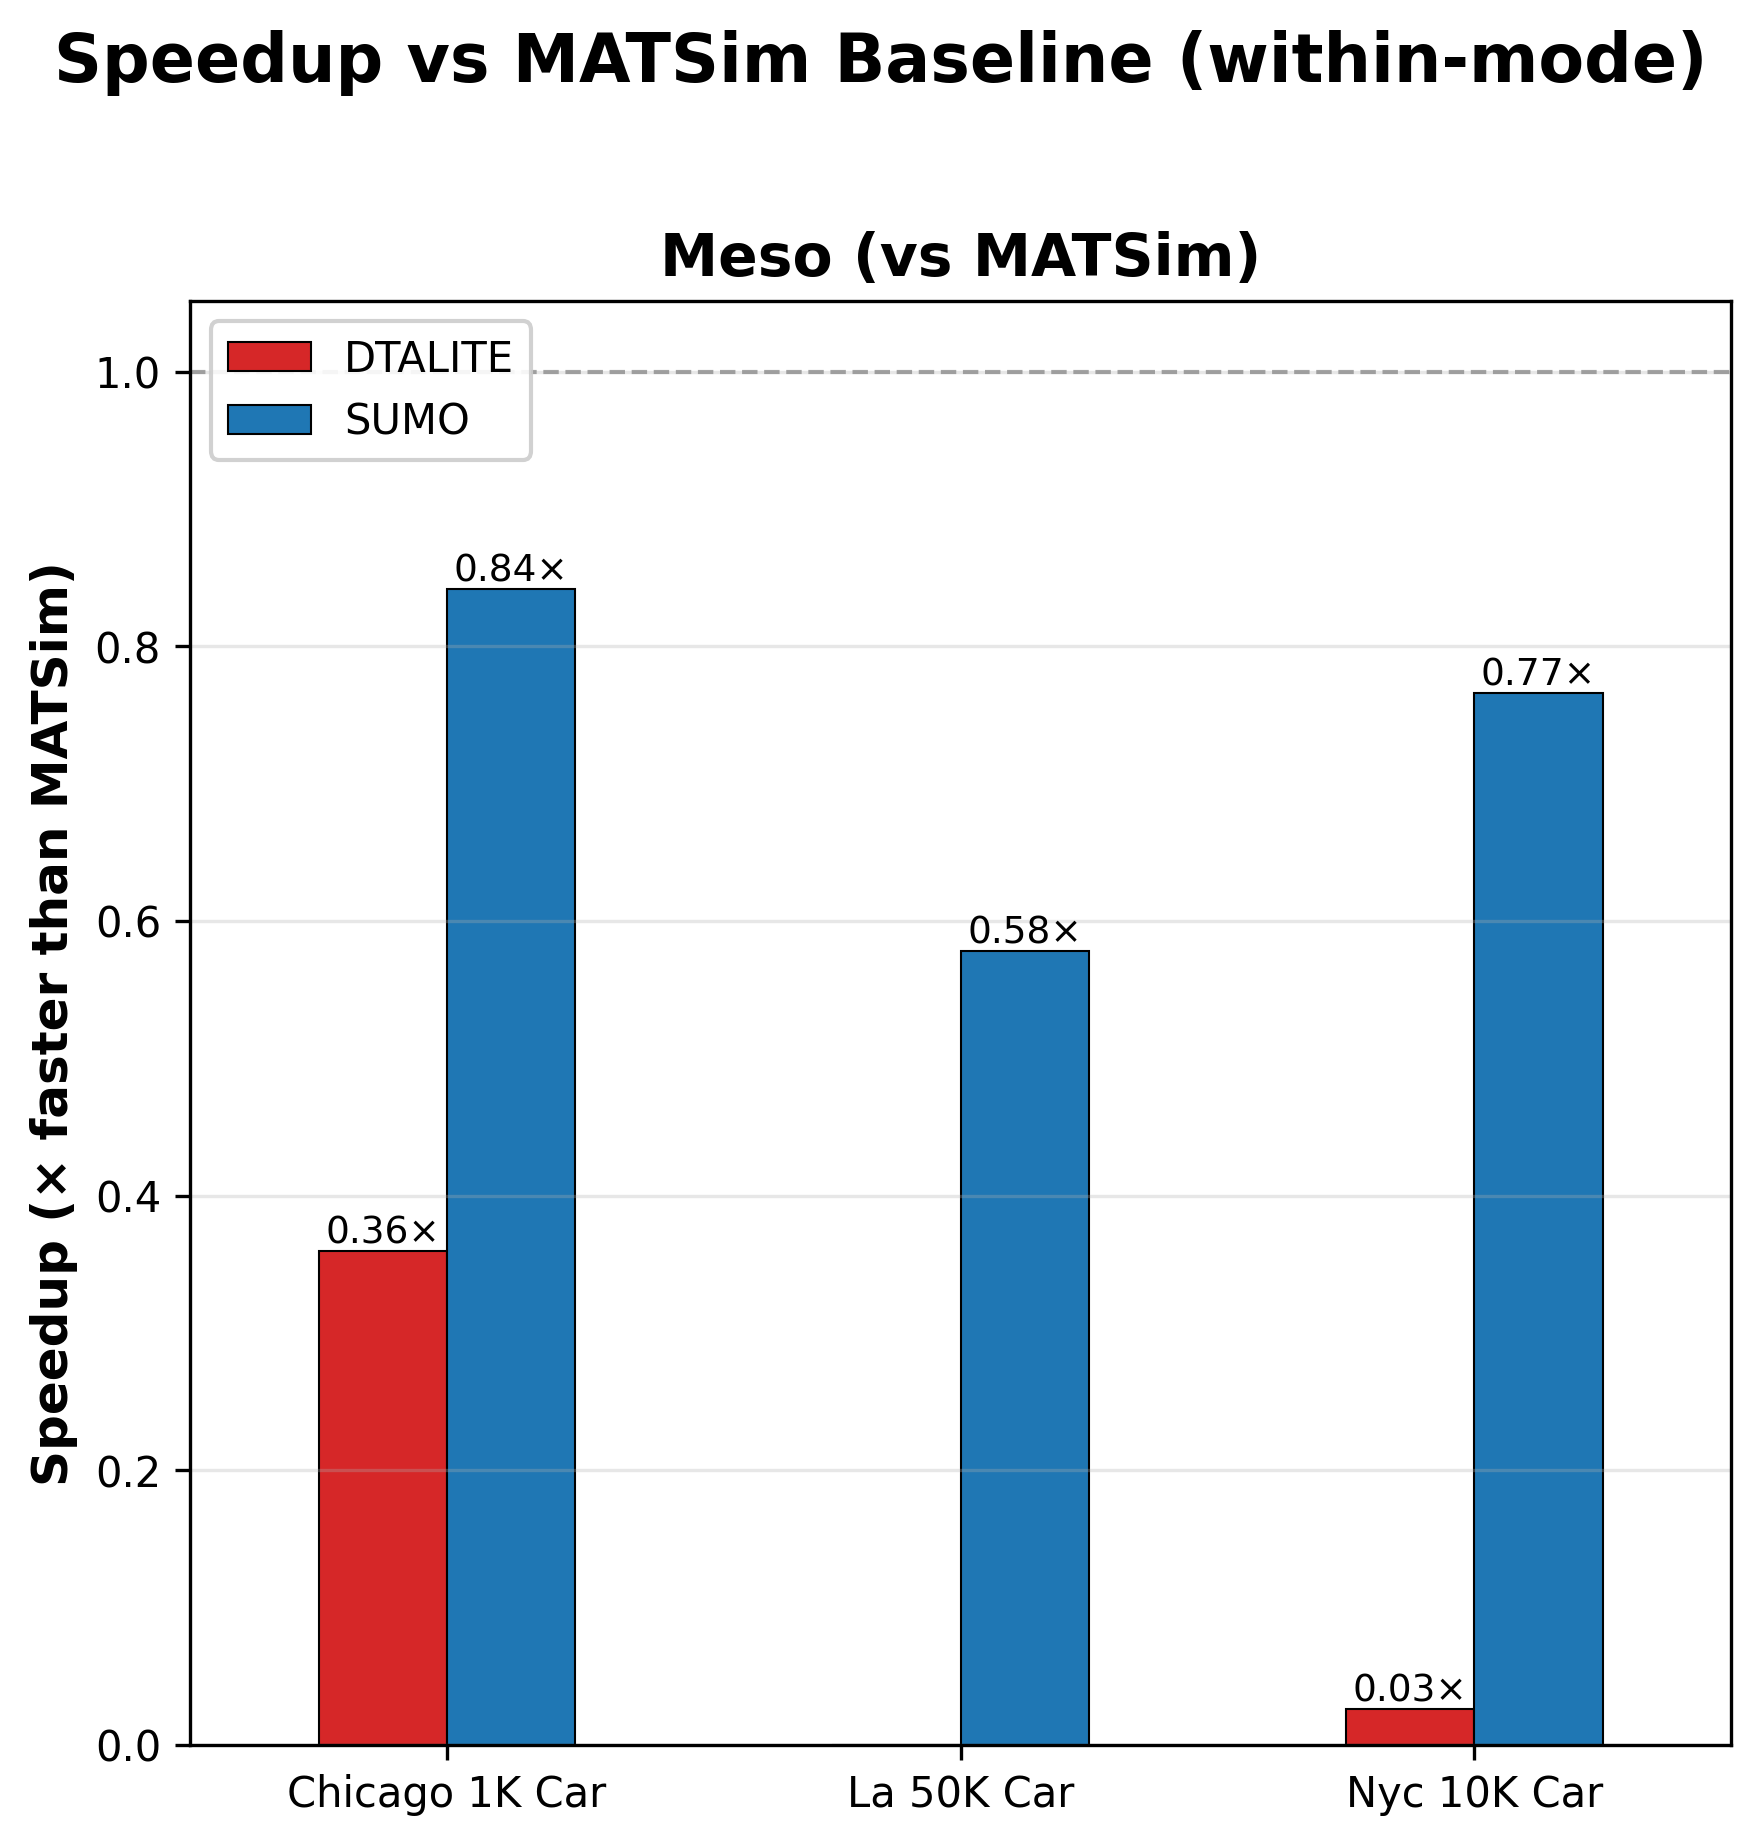
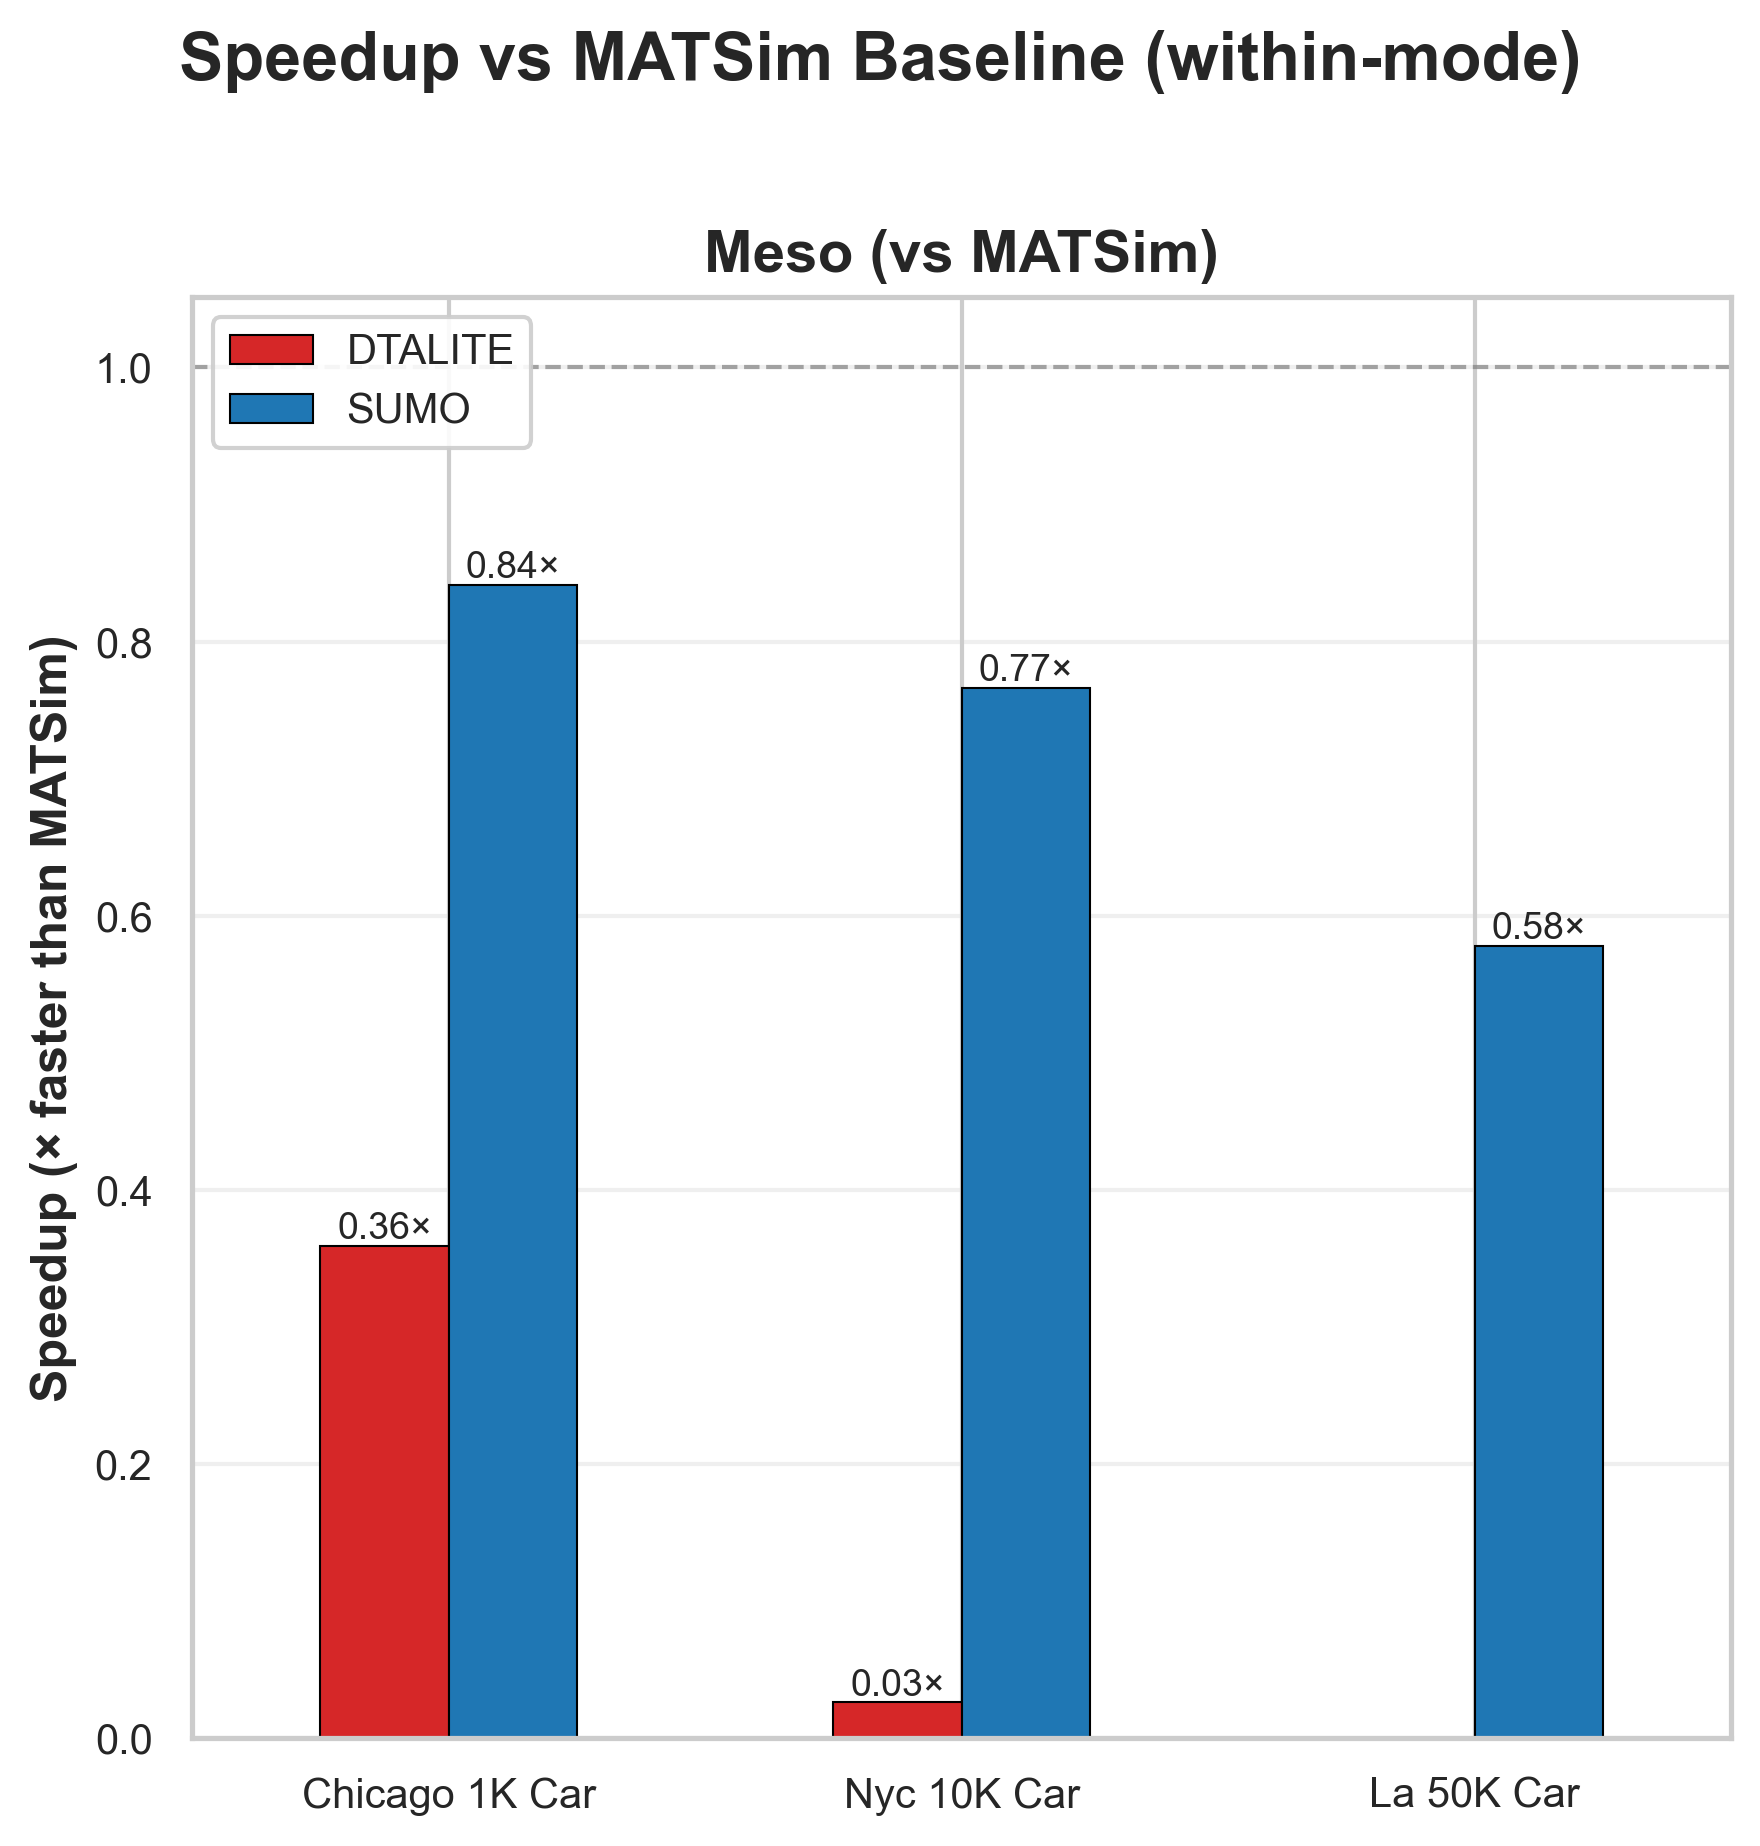
figures: correct fig_6_1 ratios to match results tables; size-order plot axes; regenerate
fig_6_1's hardcoded cross-engine (nyc_10k, la_50k) and within-engine (chicago_1k) ratios now match Tables 5.4 and 5.7. generate_plots.py orders the scenario axes by trip-count tier instead of alphabetically. All doc/figures regenerated from the current generators.

diff --git a/evaluation/generate_plots.py b/evaluation/generate_plots.py
@@ -259,6 +259,15 @@ def _city_label(city: str) -> str:
     return city.replace('_', ' ').title()
 
 
+def _city_size(city: str) -> int:
+    """Sort key: trip-count tier (1k, 10k, 50k, ...) parsed from the scenario id,
+    so plots read small-to-large by scale rather than alphabetically by city."""
+    for seg in city.split('_'):
+        if seg.endswith('k') and seg[:-1].isdigit():
+            return int(seg[:-1])
+    return 0
+
+
 def _save(name: str, output_dir: Path) -> Path:
     """Save the current figure as PNG (300 dpi), return its path.
 
@@ -280,7 +289,7 @@ def plot_runtime_comparison(metrics: list[ScenarioMetrics],
     _require_matplotlib()
     setup_style()
 
-    cities = sorted({m.city for m in metrics})
+    cities = sorted({m.city for m in metrics}, key=_city_size)
     modes = sorted({m.mode for m in metrics})
 
     fig, axes = plt.subplots(1, len(modes),
@@ -334,7 +343,7 @@ def plot_reproducibility_heatmap(metrics: list[ScenarioMetrics],
     _require_matplotlib()
     setup_style()
 
-    cities = sorted({m.city for m in metrics})
+    cities = sorted({m.city for m in metrics}, key=_city_size)
     rows = sorted({(m.engine, m.mode) for m in metrics})
 
     nan = float('nan')
@@ -414,7 +423,7 @@ def plot_travel_time_comparison(metrics: list[ScenarioMetrics],
     _require_matplotlib()
     setup_style()
 
-    cities = sorted({m.city for m in metrics})
+    cities = sorted({m.city for m in metrics}, key=_city_size)
     modes = sorted({m.mode for m in metrics})
 
     fig, axes = plt.subplots(1, len(modes),
@@ -466,7 +475,7 @@ def plot_speedup_analysis(metrics: list[ScenarioMetrics],
     _require_matplotlib()
     setup_style()
 
-    cities = sorted({m.city for m in metrics})
+    cities = sorted({m.city for m in metrics}, key=_city_size)
     modes = sorted({m.mode for m in metrics})
 
     # Restrict to modes where MATSim has a baseline run
@@ -552,7 +561,7 @@ def plot_micro_vs_meso(metrics: list[ScenarioMetrics],
     setup_style()
 
     engines = sorted({m.engine for m in metrics})
-    cities = sorted({m.city for m in metrics})
+    cities = sorted({m.city for m in metrics}, key=_city_size)
     modes = sorted({m.mode for m in metrics})
 
     if len(modes) < 2:
@@ -673,7 +682,7 @@ def plot_p95_travel_time(metrics: list[ScenarioMetrics],
         print("    (skipped: no P95 data)")
         return None
 
-    cities = sorted({m.city for m in has_p95})
+    cities = sorted({m.city for m in has_p95}, key=_city_size)
     modes = sorted({m.mode for m in has_p95})
 
     fig, axes = plt.subplots(1, len(modes),
@@ -740,7 +749,7 @@ def plot_trip_count_parity(metrics: list[ScenarioMetrics],
     if not metrics:
         return None
 
-    cities = sorted({m.city for m in metrics})
+    cities = sorted({m.city for m in metrics}, key=_city_size)
     modes = sorted({m.mode for m in metrics})
 
     fig, axes = plt.subplots(1, len(modes),
@@ -831,7 +840,7 @@ def plot_demand_composition(metrics: list[ScenarioMetrics],
         find_canonical_demand, read_demand_composition,
     )
 
-    scenarios = sorted({m.city for m in metrics})
+    scenarios = sorted({m.city for m in metrics}, key=_city_size)
     rows: list[tuple[str, dict]] = []
     for sc in scenarios:
         comp = read_demand_composition(find_canonical_demand(sc))
@@ -924,7 +933,7 @@ def plot_wall_vs_engine(results_paths: list[Path],
               "regenerate runs under Phase 11.6+)")
         return None
 
-    cells = sorted(by_cell.keys())
+    cells = sorted(by_cell.keys(), key=lambda c: (_city_size(c[0]), c[1], c[2]))
     engine_means = [statistics.mean(by_cell[c]["engine"]) for c in cells]
     cell_means = [statistics.mean(by_cell[c]["cell"]) for c in cells]
     prep_means = [max(0.0, w - e) for w, e in zip(cell_means, engine_means)]

diff --git a/tools/generate_architecture_figures.py b/tools/generate_architecture_figures.py
@@ -306,7 +306,7 @@ def fig_3_6_fairness_audit_flow(output_dir):
          "Compute per-engine mean TT + report spread\n"
          "→ INTERPRETIVE: paradigm-divergence signal",
          4.3, C_INFO, "INFORMATIONAL", "#1976d2"),
-        ("Q5: Demand composition (V5+)",
+        ("Q5: Demand composition",
          "Tally trip purposes from demand.csv\n"
          "→ INFORMATIONAL: HBW + HBSchool breakdown",
          2.9, C_INFO, "INFORMATIONAL", "#1976d2"),
@@ -452,7 +452,7 @@ def fig_6_1_paradigm_spread(output_dir):
     # --- LEFT: cross-engine ---
     ax = axes[0]
     tiers = ["chicago\n1K", "nyc\n10K", "la\n50K", "chicago\n200K", "nyc\n500K"]
-    ratios = [0.869, 1.132, 1.046, 0.645, 0.037]
+    ratios = [0.869, 1.164, 1.027, 0.645, 0.037]
     colors = ["#2196f3"] * 3 + ["#f44336"] * 2
 
     bars = ax.bar(range(len(tiers)), ratios, color=colors, edgecolor=C_BORDER,
@@ -490,8 +490,8 @@ def fig_6_1_paradigm_spread(output_dir):
     # --- RIGHT: within-engine ---
     ax = axes[1]
     tiers2 = ["chicago\n1K", "nyc\n10K", "chicago\n200K"]
-    ratios2 = [1.272, 1.729, 1.078]
-    deltas = ["+27.2 %", "+72.9 %", "+7.8 %"]
+    ratios2 = [1.279, 1.729, 1.078]
+    deltas = ["+27.9 %", "+72.9 %", "+7.8 %"]
     colors2 = ["#ff9800", "#ff5722", "#4caf50"]
 
     bars = ax.bar(range(len(tiers2)), ratios2, color=colors2, edgecolor=C_BORDER,
@@ -561,7 +561,7 @@ def fig_3_2_canonical_bundle_schema(output_dir):
             "trip_id, origin_node_id,",
             "  destination_node_id,",
             "  departure_time_s,",
-            "  mode, purpose (V5+)",
+            "  mode, purpose",
         ]),
         ("signals.xml", "XML", [
             "<junction id='tl_n0'",
@@ -866,7 +866,7 @@ def fig_3_11_container_chain(output_dir):
     # Bottom note
     ax.text(7.0, 0.45,
             "Thesis-canonical image pinned at lib/container/manifest.json (verified on Cardinal). "
-            "See Chapter 3 §3.11 + doc/CONTAINER_USAGE.md.",
+            "See Chapter 3 §3.11.",
             ha="center", va="center", fontsize=9, style="italic", color="#555")
 
     return save(fig, "fig_3_11_container_chain", output_dir)
